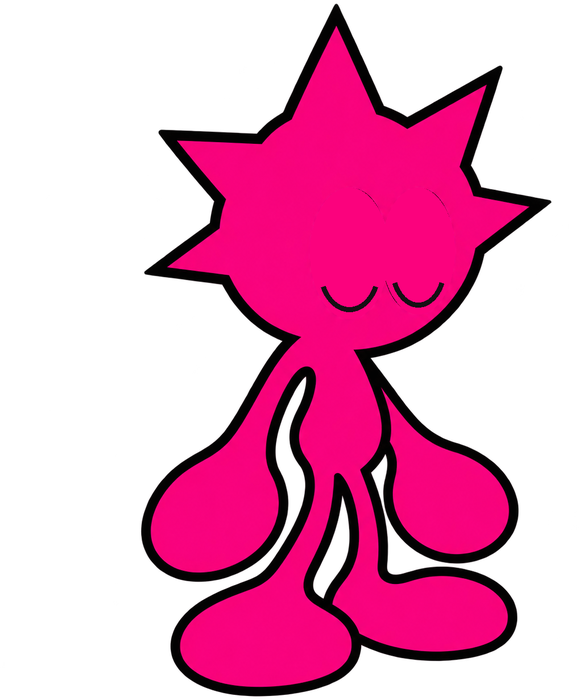
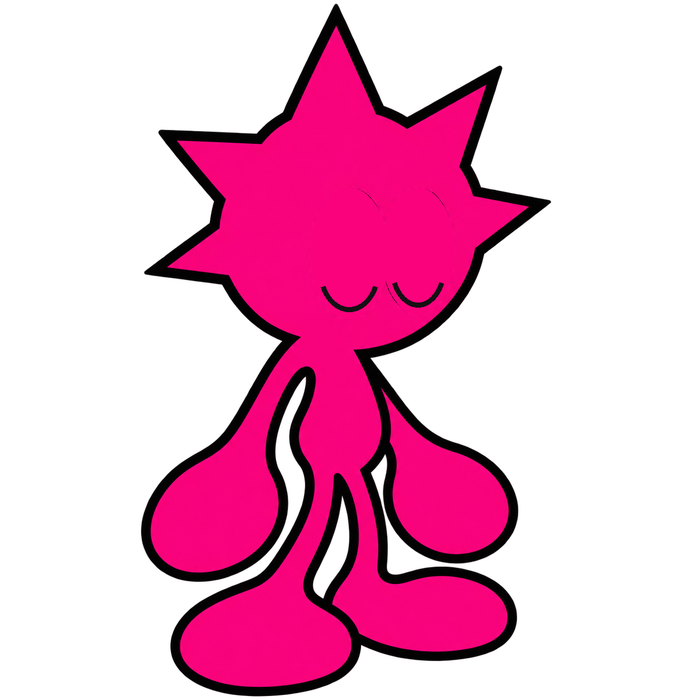
Listening animation: he leans in while the session is live.
Seven drawn frames land in glass/sprites/listening/ and ship as a
ping-pong flipbook (130ms slots, holds at both ends of the lean). The
firmware tracks the brain's session state and plays it whenever the
session reports 'listening' — under recording and playback too, since
he's still listening then. Outside a session the home face keeps the
idle blink.

The emulator runs the same loop while the face is up and nothing is
playing, with all face frames on one union crop so swaps don't jitter.

Generated with [Devin](https://devin.ai)

Changed region(s): [[0.1865, 0.0, 0.9637, 1.0], [0.6218, 0.27, 0.6528, 0.3]]

diff --git a/friend/gizmo_friend/static/oddity.html b/friend/gizmo_friend/static/oddity.html
@@ -10,8 +10,15 @@
   <link rel="stylesheet" href="/static/oddity-device.css?v=gate48">
   <link rel="stylesheet" href="/static/oddity-experience.css">
   <link rel="preload" as="image" href="/static/device-reference-ptt-pressed.png">
-  <link rel="preload" as="image" href="/static/oddity-character-half.png?v=char2">
-  <link rel="preload" as="image" href="/static/oddity-character-closed.png?v=char2">
+  <link rel="preload" as="image" href="/static/oddity-character-half.png?v=char3">
+  <link rel="preload" as="image" href="/static/oddity-character-closed.png?v=char3">
+  <link rel="preload" as="image" href="/static/oddity-listening-01.png?v=listen1">
+  <link rel="preload" as="image" href="/static/oddity-listening-02.png?v=listen1">
+  <link rel="preload" as="image" href="/static/oddity-listening-03.png?v=listen1">
+  <link rel="preload" as="image" href="/static/oddity-listening-04.png?v=listen1">
+  <link rel="preload" as="image" href="/static/oddity-listening-05.png?v=listen1">
+  <link rel="preload" as="image" href="/static/oddity-listening-06.png?v=listen1">
+  <link rel="preload" as="image" href="/static/oddity-listening-07.png?v=listen1">
   <link rel="preload" as="image" href="/static/oddity-boot-00.jpg?v=boot2">
   <link rel="preload" as="image" href="/static/oddity-boot-01.jpg?v=boot2">
   <link rel="preload" as="image" href="/static/oddity-boot-02.jpg?v=boot2">
@@ -39,7 +46,7 @@
       document.documentElement.classList.add('oddity-locked');
     }
   </script>
-  <script type="module" src="/static/oddity.js?v=gate49"></script>
+  <script type="module" src="/static/oddity.js?v=gate50"></script>
 </head>
 <body>
   <header class="masthead">
@@ -85,7 +92,7 @@
                   <span class="glass-battery-nub" aria-hidden="true"></span>
                 </span>
               </div>
-              <div id="friend" class="friend"><img src="/static/oddity-character.png?v=char2" alt="" draggable="false"></div>
+              <div id="friend" class="friend"><img src="/static/oddity-character.png?v=char3" alt="" draggable="false"></div>
             </div>
             <div id="glass-settings" class="glass-settings" hidden>
               <div class="glass-setting" data-key="brightness">
@@ -107,7 +114,7 @@
             </div>
             <div id="glass-camera" class="glass-camera" hidden>
               <div class="camera-strip">
-                <img src="/static/oddity-character.png?v=char2" alt="" draggable="false">
+                <img src="/static/oddity-character.png?v=char3" alt="" draggable="false">
                 <p id="camera-line" class="camera-line"></p>
               </div>
               <div class="camera-finder">

diff --git a/friend/gizmo_friend/static/oddity.js b/friend/gizmo_friend/static/oddity.js
@@ -90,17 +90,31 @@ const blinkFrames = Object.fromEntries([10, 11, 12, 13].map((id) => {
   image.src = `/static/oddity-blink-${id}.jpg?v=blink2`;
   return [id, image];
 }));
-// The idle character blinks like the device does: open ~4s, then
-// half -> closed -> half at 110ms per step.
-const FRIEND_FRAMES = ['/static/oddity-character.png?v=char2', '/static/oddity-character-half.png?v=char2', '/static/oddity-character-closed.png?v=char2'];
-function blinkFriend(step = 0) {
-  const imgs = document.querySelectorAll('img[src*="oddity-character"]');
+// Face flipbooks, mirroring the device: the lean-in listen loop while he's
+// awake on the home face, and a blink at rest.
+const IDLE_FRAMES = ['/static/oddity-character.png?v=char3', '/static/oddity-character-half.png?v=char3', '/static/oddity-character-closed.png?v=char3'];
+const LISTEN_FRAMES = Array.from({ length: 7 }, (_, i) => `/static/oddity-listening-0${i + 1}.png?v=listen1`);
+const LISTEN_SLOTS = [0, 0, 1, 2, 3, 4, 5, 6, 6, 5, 4, 3, 2, 1];
+let listenSlot = 0;
+function faceImgs() {
+  return document.querySelectorAll('img[src*="oddity-character"], img[src*="oddity-listening"]');
+}
+function faceTick(step = 0) {
+  const imgs = faceImgs();
+  if (awake && !playing && !demoRunning && !stage.classList.contains('has-scene')) {
+    const src = LISTEN_FRAMES[LISTEN_SLOTS[listenSlot]];
+    listenSlot = (listenSlot + 1) % LISTEN_SLOTS.length;
+    imgs.forEach((img) => (img.src = src));
+    setTimeout(() => faceTick(0), 130);
+    return;
+  }
+  listenSlot = 0;
   if (step === 0) {
-    imgs.forEach((img) => (img.src = FRIEND_FRAMES[0]));
-    setTimeout(() => blinkFriend(1), 3600 + Math.random() * 2200);
+    imgs.forEach((img) => (img.src = IDLE_FRAMES[0]));
+    setTimeout(() => faceTick(1), 3600 + Math.random() * 2200);
   } else {
-    imgs.forEach((img) => (img.src = FRIEND_FRAMES[[1, 2, 1][step - 1]]));
-    setTimeout(() => blinkFriend(step < 3 ? step + 1 : 0), 110);
+    imgs.forEach((img) => (img.src = IDLE_FRAMES[[1, 2, 1][step - 1]]));
+    setTimeout(() => faceTick(step < 3 ? step + 1 : 0), 110);
   }
 }
 let blinkTimer = 0;
@@ -818,7 +832,7 @@ window.addEventListener('blur', () => { setTalkPressed(false); if (held) cancelR
 document.addEventListener('visibilitychange', () => { if (document.hidden) { setTalkPressed(false); cancelRecording(); if (playing && !paused) togglePause(); } });
 window.addEventListener('pagehide', () => { expectedClose = true; stopDemo(); setTalkPressed(false); cancelRecording(); stopPlayer(); socket?.close(); });
 syncPower();
-blinkFriend();
+faceTick();
 glass = createGlass(stage, {
   ready: onGlassReady,
   off: onGlassOff,

diff --git a/body/firmware/include/gizmo/assets_generated.h b/body/firmware/include/gizmo/assets_generated.h
@@ -20,6 +20,11 @@ constexpr int kIdleUniqueFrames = 3;
 constexpr uint32_t kIdleFramePeriodMs = 110;
 constexpr uint8_t kIdleSlotFrame[kIdleSlots] = {0, 0, 0, 0, 0, 0, 0, 0, 0, 0, 0, 0, 0, 0, 0, 0, 0, 0, 0, 0, 0, 0, 0, 0, 0, 0, 0, 0, 0, 0, 0, 0, 0, 0, 0, 0, 1, 2, 1, 0};
 
+constexpr int kListeningSlots = 14;
+constexpr int kListeningUniqueFrames = 7;
+constexpr uint32_t kListeningFramePeriodMs = 130;
+constexpr uint8_t kListeningSlotFrame[kListeningSlots] = {0, 0, 1, 2, 3, 4, 5, 6, 6, 5, 4, 3, 2, 1};
+
 constexpr uint32_t kChimeSampleRate = 16000;
 constexpr size_t kChimeSamples = 10720;
 
@@ -75,6 +80,20 @@ extern "C" const uint8_t _binary_assets_idle_01_jpg_start[] asm("_binary_assets_
 extern "C" const uint8_t _binary_assets_idle_01_jpg_end[] asm("_binary_assets_idle_01_jpg_end");
 extern "C" const uint8_t _binary_assets_idle_02_jpg_start[] asm("_binary_assets_idle_02_jpg_start");
 extern "C" const uint8_t _binary_assets_idle_02_jpg_end[] asm("_binary_assets_idle_02_jpg_end");
+extern "C" const uint8_t _binary_assets_listening_00_jpg_start[] asm("_binary_assets_listening_00_jpg_start");
+extern "C" const uint8_t _binary_assets_listening_00_jpg_end[] asm("_binary_assets_listening_00_jpg_end");
+extern "C" const uint8_t _binary_assets_listening_01_jpg_start[] asm("_binary_assets_listening_01_jpg_start");
+extern "C" const uint8_t _binary_assets_listening_01_jpg_end[] asm("_binary_assets_listening_01_jpg_end");
+extern "C" const uint8_t _binary_assets_listening_02_jpg_start[] asm("_binary_assets_listening_02_jpg_start");
+extern "C" const uint8_t _binary_assets_listening_02_jpg_end[] asm("_binary_assets_listening_02_jpg_end");
+extern "C" const uint8_t _binary_assets_listening_03_jpg_start[] asm("_binary_assets_listening_03_jpg_start");
+extern "C" const uint8_t _binary_assets_listening_03_jpg_end[] asm("_binary_assets_listening_03_jpg_end");
+extern "C" const uint8_t _binary_assets_listening_04_jpg_start[] asm("_binary_assets_listening_04_jpg_start");
+extern "C" const uint8_t _binary_assets_listening_04_jpg_end[] asm("_binary_assets_listening_04_jpg_end");
+extern "C" const uint8_t _binary_assets_listening_05_jpg_start[] asm("_binary_assets_listening_05_jpg_start");
+extern "C" const uint8_t _binary_assets_listening_05_jpg_end[] asm("_binary_assets_listening_05_jpg_end");
+extern "C" const uint8_t _binary_assets_listening_06_jpg_start[] asm("_binary_assets_listening_06_jpg_start");
+extern "C" const uint8_t _binary_assets_listening_06_jpg_end[] asm("_binary_assets_listening_06_jpg_end");
 extern "C" const uint8_t _binary_assets_heart_empty_rgb565a_start[] asm("_binary_assets_heart_empty_rgb565a_start");
 extern "C" const uint8_t _binary_assets_heart_empty_rgb565a_end[] asm("_binary_assets_heart_empty_rgb565a_end");
 extern "C" const uint8_t _binary_assets_heart_half_rgb565a_start[] asm("_binary_assets_heart_half_rgb565a_start");
@@ -139,6 +158,30 @@ inline const uint8_t* idle_frame_end(int unique) {
     case 0: return _binary_assets_idle_00_jpg_end;
     case 1: return _binary_assets_idle_01_jpg_end;
     case 2: return _binary_assets_idle_02_jpg_end;
+    default: return nullptr;
+  }
+}
+inline const uint8_t* listening_frame_start(int unique) {
+  switch (unique) {
+    case 0: return _binary_assets_listening_00_jpg_start;
+    case 1: return _binary_assets_listening_01_jpg_start;
+    case 2: return _binary_assets_listening_02_jpg_start;
+    case 3: return _binary_assets_listening_03_jpg_start;
+    case 4: return _binary_assets_listening_04_jpg_start;
+    case 5: return _binary_assets_listening_05_jpg_start;
+    case 6: return _binary_assets_listening_06_jpg_start;
+    default: return nullptr;
+  }
+}
+inline const uint8_t* listening_frame_end(int unique) {
+  switch (unique) {
+    case 0: return _binary_assets_listening_00_jpg_end;
+    case 1: return _binary_assets_listening_01_jpg_end;
+    case 2: return _binary_assets_listening_02_jpg_end;
+    case 3: return _binary_assets_listening_03_jpg_end;
+    case 4: return _binary_assets_listening_04_jpg_end;
+    case 5: return _binary_assets_listening_05_jpg_end;
+    case 6: return _binary_assets_listening_06_jpg_end;
     default: return nullptr;
   }
 }

diff --git a/body/firmware/tools/embed_assets.py b/body/firmware/tools/embed_assets.py
@@ -115,6 +115,14 @@ def main() -> None:
         embedded.append(name)
     idle_slots: list[int] = idle.get("slots") or [0]
 
+    listening = home.get("listening") or {}
+    listening_frames: list[str] = listening.get("frames") or []
+    for index, relative in enumerate(listening_frames):
+        name = f"listening_{index:02d}.jpg"
+        write(ASSETS / name, (bundle / relative).read_bytes())
+        embedded.append(name)
+    listening_slots: list[int] = listening.get("slots") or [0]
+
     heart_side = None
     for state in ("empty", "half", "full"):
         with Image.open(bundle / home["battery"]["paths"][state]) as opened:
@@ -160,6 +168,11 @@ def main() -> None:
         f"constexpr int kIdleUniqueFrames = {len(idle_frames)};",
         f"constexpr uint32_t kIdleFramePeriodMs = {idle.get('period_ms', 110)};",
         f"constexpr uint8_t kIdleSlotFrame[kIdleSlots] = {{{', '.join(str(s) for s in idle_slots)}}};",
+        "",
+        f"constexpr int kListeningSlots = {len(listening_slots)};",
+        f"constexpr int kListeningUniqueFrames = {len(listening_frames)};",
+        f"constexpr uint32_t kListeningFramePeriodMs = {listening.get('period_ms', 130)};",
+        f"constexpr uint8_t kListeningSlotFrame[kListeningSlots] = {{{', '.join(str(s) for s in listening_slots)}}};",
         "",
         f"constexpr uint32_t kChimeSampleRate = {DEVICE_SAMPLE_RATE};",
         f"constexpr size_t kChimeSamples = {chime_samples};",
@@ -209,6 +222,20 @@ def main() -> None:
     lines.append("  switch (unique) {")
     for index in range(len(idle_frames)):
         lines.append(f"    case {index}: return {symbol(f'idle_{index:02d}.jpg')}_end;")
+    lines.append("    default: return nullptr;")
+    lines.append("  }")
+    lines.append("}")
+    lines.append("inline const uint8_t* listening_frame_start(int unique) {")
+    lines.append("  switch (unique) {")
+    for index in range(len(listening_frames)):
+        lines.append(f"    case {index}: return {symbol(f'listening_{index:02d}.jpg')}_start;")
+    lines.append("    default: return nullptr;")
+    lines.append("  }")
+    lines.append("}")
+    lines.append("inline const uint8_t* listening_frame_end(int unique) {")
+    lines.append("  switch (unique) {")
+    for index in range(len(listening_frames)):
+        lines.append(f"    case {index}: return {symbol(f'listening_{index:02d}.jpg')}_end;")
     lines.append("    default: return nullptr;")
     lines.append("  }")
     lines.append("}")

diff --git a/body/firmware/src/main.cpp b/body/firmware/src/main.cpp
@@ -61,7 +61,8 @@ Preferences prefs;
 
 uint16_t* framebuffer = nullptr;
 uint16_t* home_base = nullptr;  // decoded once, copied under every home screen
-int idle_slot_drawn = -1;
+int home_slot_drawn = -1;
+int home_set_drawn = -1;  // 0 = idle flipbook, 1 = listening lean
 gizmo::draw::Canvas canvas;
 gizmo::SettingsSnapshot settings;
 
@@ -115,9 +116,14 @@ int current_idle_slot() {
   return static_cast<int>((millis() / gizmo::assets::kIdleFramePeriodMs) % gizmo::assets::kIdleSlots);
 }
 
+int current_listening_slot() {
+  return static_cast<int>((millis() / gizmo::assets::kListeningFramePeriodMs) % gizmo::assets::kListeningSlots);
+}
+
 bool ensure_home_base() {
-  const int slot = current_idle_slot();
-  if (home_base != nullptr && idle_slot_drawn == slot) return true;
+  const int set = friend_link.session_listening() ? 1 : 0;
+  const int slot = set ? current_listening_slot() : current_idle_slot();
+  if (home_base != nullptr && home_set_drawn == set && home_slot_drawn == slot) return true;
   if (!ensure_framebuffer()) return false;
   const size_t bytes = static_cast<size_t>(canvas.width) * canvas.height * sizeof(uint16_t);
   if (home_base == nullptr) {
@@ -125,11 +131,14 @@ bool ensure_home_base() {
     if (home_base == nullptr) return false;
   }
   const gizmo::draw::Canvas target{home_base, canvas.width, canvas.height};
-  if (!gizmo::assets::decode_idle_slot(slot, target)) {
+  const bool ok = set ? gizmo::assets::decode_listening_slot(slot, target)
+                      : gizmo::assets::decode_idle_slot(slot, target);
+  if (!ok) {
     Serial.println("home base: jpeg decode failed");
     gizmo::draw::clear(target, gizmo::draw::kBlack);
   }
-  idle_slot_drawn = slot;
+  home_set_drawn = set;
+  home_slot_drawn = slot;
   return true;
 }
 
@@ -887,7 +896,11 @@ void loop() {
       } else if (now - last_redraw >= kIdleRedrawMs && hud_changed(current_hud(), last_hud)) {
         dirty = true;
       }
-      if (current_idle_slot() != idle_slot_drawn) dirty = true;
+      {
+        const int set = friend_link.session_listening() ? 1 : 0;
+        const int slot = set ? current_listening_slot() : current_idle_slot();
+        if (set != home_set_drawn || slot != home_slot_drawn) dirty = true;
+      }
       break;
     case State::kCamera:
       camera_loop();

diff --git a/body/assets/export_bundle.py b/body/assets/export_bundle.py
@@ -283,6 +283,16 @@ def export(args: argparse.Namespace) -> dict[str, object]:
         # that does not animate still reads it.
         write_bytes(temporary, "home/base.jpg", (temporary / idle_frames[0]).read_bytes())
 
+        listening_dir = glass / "sprites/listening"
+        listening_sources = sorted(listening_dir.glob("*.png"))
+        listening_config = sprite_config.get("listening", {})
+        listening_frames: list[str] = []
+        for frame_index, listening_source in enumerate(listening_sources):
+            listening_frame = home_base(listening_source, size)
+            relative = f"home/listening/{frame_index:02d}.jpg"
+            write_bytes(temporary, relative, encode_jpeg(listening_frame, args.jpeg_quality))
+            listening_frames.append(relative)
+
         font_path = glass / "fonts/Outfit[wght].ttf"
         atlas, clock_metadata, clock_font = export_clock_atlas(font_path, args.width)
         write_bytes(temporary, str(clock_metadata["path"]), atlas)
@@ -357,6 +367,11 @@ def export(args: argparse.Namespace) -> dict[str, object]:
                     "frames": idle_frames,
                     "period_ms": int(idle_config.get("period_ms", 110)),
                     "slots": idle_config.get("slots") or [0],
+                },
+                "listening": {
+                    "frames": listening_frames,
+                    "period_ms": int(listening_config.get("period_ms", 130)),
+                    "slots": listening_config.get("slots") or [0],
                 },
                 "status_scope": "home_only",
                 "status_top_fraction": 0.065,

diff --git a/body/firmware/src/ui/assets.cpp b/body/firmware/src/ui/assets.cpp
@@ -32,6 +32,13 @@ bool decode_idle_slot(int slot, const draw::Canvas& canvas) {
   return decode(idle_frame_start(unique), idle_frame_end(unique), canvas);
 }
 
+bool decode_listening_slot(int slot, const draw::Canvas& canvas) {
+  if (slot < 0) slot = 0;
+  if (slot >= kListeningSlots) slot = kListeningSlots - 1;
+  const int unique = kListeningSlotFrame[slot];
+  return decode(listening_frame_start(unique), listening_frame_end(unique), canvas);
+}
+
 const uint8_t* heart(Heart state) {
   switch (state) {
     case Heart::kFull: return _binary_assets_heart_full_rgb565a_start;

diff --git a/body/firmware/include/gizmo/friend_connection.h b/body/firmware/include/gizmo/friend_connection.h
@@ -23,6 +23,7 @@ class FriendConnection {
   const char* device_id() const { return device_id_; }
   bool has_token() const { return token_[0] != '\0'; }
   bool hello_ok() const { return hello_ok_; }
+  bool session_listening() const { return session_listening_; }
 
   bool set_url(const char* url);
   bool set_token(const char* token);
@@ -70,6 +71,7 @@ class FriendConnection {
   uint32_t last_try_ = 0;
   bool hello_ok_ = false;
   bool session_ready_ = false;
+  bool session_listening_ = false;
   bool glass_seen_ = false;
   bool tls_ = false;
   uint16_t port_ = 80;

diff --git a/body/firmware/src/hardware/friend.cpp b/body/firmware/src/hardware/friend.cpp
@@ -532,6 +532,7 @@ void FriendConnection::accept_session_state(const char* state) {
   if (strcmp(state, "booting") == 0) last_try_ = millis();
   session_ready_ = strcmp(state, "listening") == 0 || strcmp(state, "talking") == 0 ||
                    strcmp(state, "thinking") == 0 || strcmp(state, "asleep") == 0;
+  session_listening_ = strcmp(state, "listening") == 0;
   if (strcmp(state, "powered_off") == 0) {
     // A new device identity starts powered off. Never cold-boot an already
     // powered session just because the Wi-Fi socket reconnected.

diff --git a/friend/gizmo_friend/server.py b/friend/gizmo_friend/server.py
@@ -45,6 +45,13 @@ ODDITY_PUBLIC_ASSETS = {
     "/static/oddity-character.png",
     "/static/oddity-character-half.png",
     "/static/oddity-character-closed.png",
+    "/static/oddity-listening-01.png",
+    "/static/oddity-listening-02.png",
+    "/static/oddity-listening-03.png",
+    "/static/oddity-listening-04.png",
+    "/static/oddity-listening-05.png",
+    "/static/oddity-listening-06.png",
+    "/static/oddity-listening-07.png",
     "/static/oddity-device.css",
     "/static/oddity-device.mjs",
     "/static/oddity-michroma.ttf",

diff --git a/body/firmware/include/gizmo/assets.h b/body/firmware/include/gizmo/assets.h
@@ -19,6 +19,8 @@ bool decode_boot_slot(int slot, const draw::Canvas& canvas);
 bool decode_home_base(const draw::Canvas& canvas);
 // Decode the idle animation frame for `slot` (0..kIdleSlots-1) into the canvas.
 bool decode_idle_slot(int slot, const draw::Canvas& canvas);
+// Decode the listening animation frame for `slot` (0..kListeningSlots-1).
+bool decode_listening_slot(int slot, const draw::Canvas& canvas);
 
 // RGB565+A8 heart sprite, kHeartAssetSide square.
 const uint8_t* heart(Heart state);
